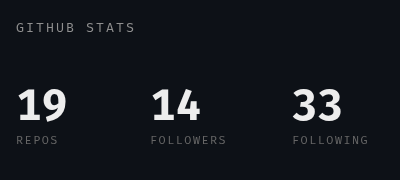
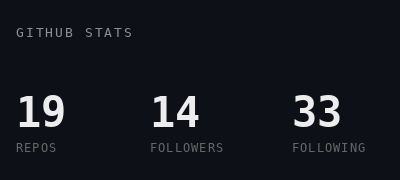
Stats cards auto-atualizaveis via GitHub Action (sem servico externo)

diff --git a/scripts/update_stats.py b/scripts/update_stats.py
@@ -1,0 +1,124 @@
+#!/usr/bin/env python3
+"""Gera cards de stats do GitHub (PNG 400x180, dark) via PIL.
+
+Roda localmente ou num GitHub Action para atualizar os cards automaticamente
+sem depender de servicos externos (ex: github-readme-stats.vercel.app).
+
+Uso: python3 scripts/update_stats.py
+"""
+import json
+import os
+import urllib.request
+
+from PIL import Image, ImageDraw, ImageFont
+
+USER = "fxlpz"
+OUT_DIR = os.path.join(os.path.dirname(os.path.abspath(__file__)), "..", "img")
+W, H = 400, 180
+BG = (13, 17, 23)          # #0d1117
+GRAY_TITLE = (143, 143, 143)  # #8f8f8f
+WHITE = (237, 237, 237)    # #ededed
+GRAY_LABEL = (102, 102, 102)  # #666666
+GRAY_NAME = (201, 201, 201)   # #c9c9c9
+BAR = (90, 90, 90)         # #5a5a5a
+GRAY_COUNT = (111, 111, 111)  # #6f6f6f
+BAR_TEXT = (22, 22, 22)    # #161616
+
+
+def find_font(name):
+    for base in ("/usr/share/fonts/truetype/dejavu", "/usr/share/fonts/dejavu"):
+        p = os.path.join(base, name)
+        if os.path.exists(p):
+            return p
+    raise FileNotFoundError(f"fonte nao encontrada: {name}")
+
+
+def load_font(size, bold=False):
+    name = "DejaVuSansMono-Bold.ttf" if bold else "DejaVuSansMono.ttf"
+    return ImageFont.truetype(find_font(name), size)
+
+
+def fetch_json(url):
+    req = urllib.request.Request(
+        url,
+        headers={"User-Agent": "fxlpz-stats-bot", "Accept": "application/vnd.github+json"},
+    )
+    with urllib.request.urlopen(req, timeout=30) as r:
+        return json.load(r)
+
+
+def fetch_data():
+    u = fetch_json(f"https://api.github.com/users/{USER}")
+    repos = fetch_json(f"https://api.github.com/users/{USER}/repos?per_page=100&sort=updated")
+    langs = {}
+    for r in repos:
+        l = r.get("language")
+        if l:
+            langs[l] = langs.get(l, 0) + 1
+    top = sorted(langs.items(), key=lambda kv: (-kv[1], kv[0]))[:6]
+    return {
+        "repos": u.get("public_repos", 0),
+        "followers": u.get("followers", 0),
+        "following": u.get("following", 0),
+        "langs": top,
+    }
+
+
+def draw_tracked(draw, xy, text, font, fill, tracking=0):
+    x, y = xy
+    for ch in text:
+        draw.text((x, y), ch, font=font, fill=fill)
+        x += draw.textlength(ch, font=font) + tracking
+    return x
+
+
+def make_stats(data):
+    img = Image.new("RGB", (W, H), BG)
+    d = ImageDraw.Draw(img)
+    f_title = load_font(13)
+    f_num = load_font(42, bold=True)
+    f_label = load_font(12)
+    draw_tracked(d, (16, 24), "GITHUB STATS", f_title, GRAY_TITLE, tracking=2)
+    for (num, label), x in zip(
+        [
+            (str(data["repos"]), "REPOS"),
+            (str(data["followers"]), "FOLLOWERS"),
+            (str(data["following"]), "FOLLOWING"),
+        ],
+        [16, 150, 292],
+    ):
+        d.text((x, 88), num, font=f_num, fill=WHITE)
+        draw_tracked(d, (x, 140), label, f_label, GRAY_LABEL, tracking=1)
+    img.save(os.path.join(OUT_DIR, "stats.png"))
+
+
+def make_langs(data):
+    img = Image.new("RGB", (W, H), BG)
+    d = ImageDraw.Draw(img)
+    f_title = load_font(13)
+    f_name = load_font(12)
+    f_pct = load_font(10, bold=True)
+    f_count = load_font(12)
+    draw_tracked(d, (16, 24), "TOP LANGUAGES", f_title, GRAY_TITLE, tracking=2)
+    total = sum(c for _, c in data["langs"]) or 1
+    y = 62
+    for name, c in data["langs"]:
+        pct = c * 100.0 / total
+        barw = max(4, int(pct * 3.0))
+        d.text((16, y), name, font=f_name, fill=GRAY_NAME)
+        d.rounded_rectangle([112, y - 8, 112 + barw, y + 2], radius=3, fill=BAR)
+        d.text((118, y - 7), f"{int(pct)}%", font=f_pct, fill=BAR_TEXT)
+        d.text((368, y), f"{c} repos", font=f_count, fill=GRAY_COUNT, anchor="rs")
+        y += 20
+    img.save(os.path.join(OUT_DIR, "langs.png"))
+
+
+if __name__ == "__main__":
+    data = fetch_data()
+    make_stats(data)
+    make_langs(data)
+    print(
+        "ok: "
+        f"{data['repos']} repos, {data['followers']} followers, "
+        f"{data['following']} following, langs={[l for l, _ in data['langs']]}"
+    )
